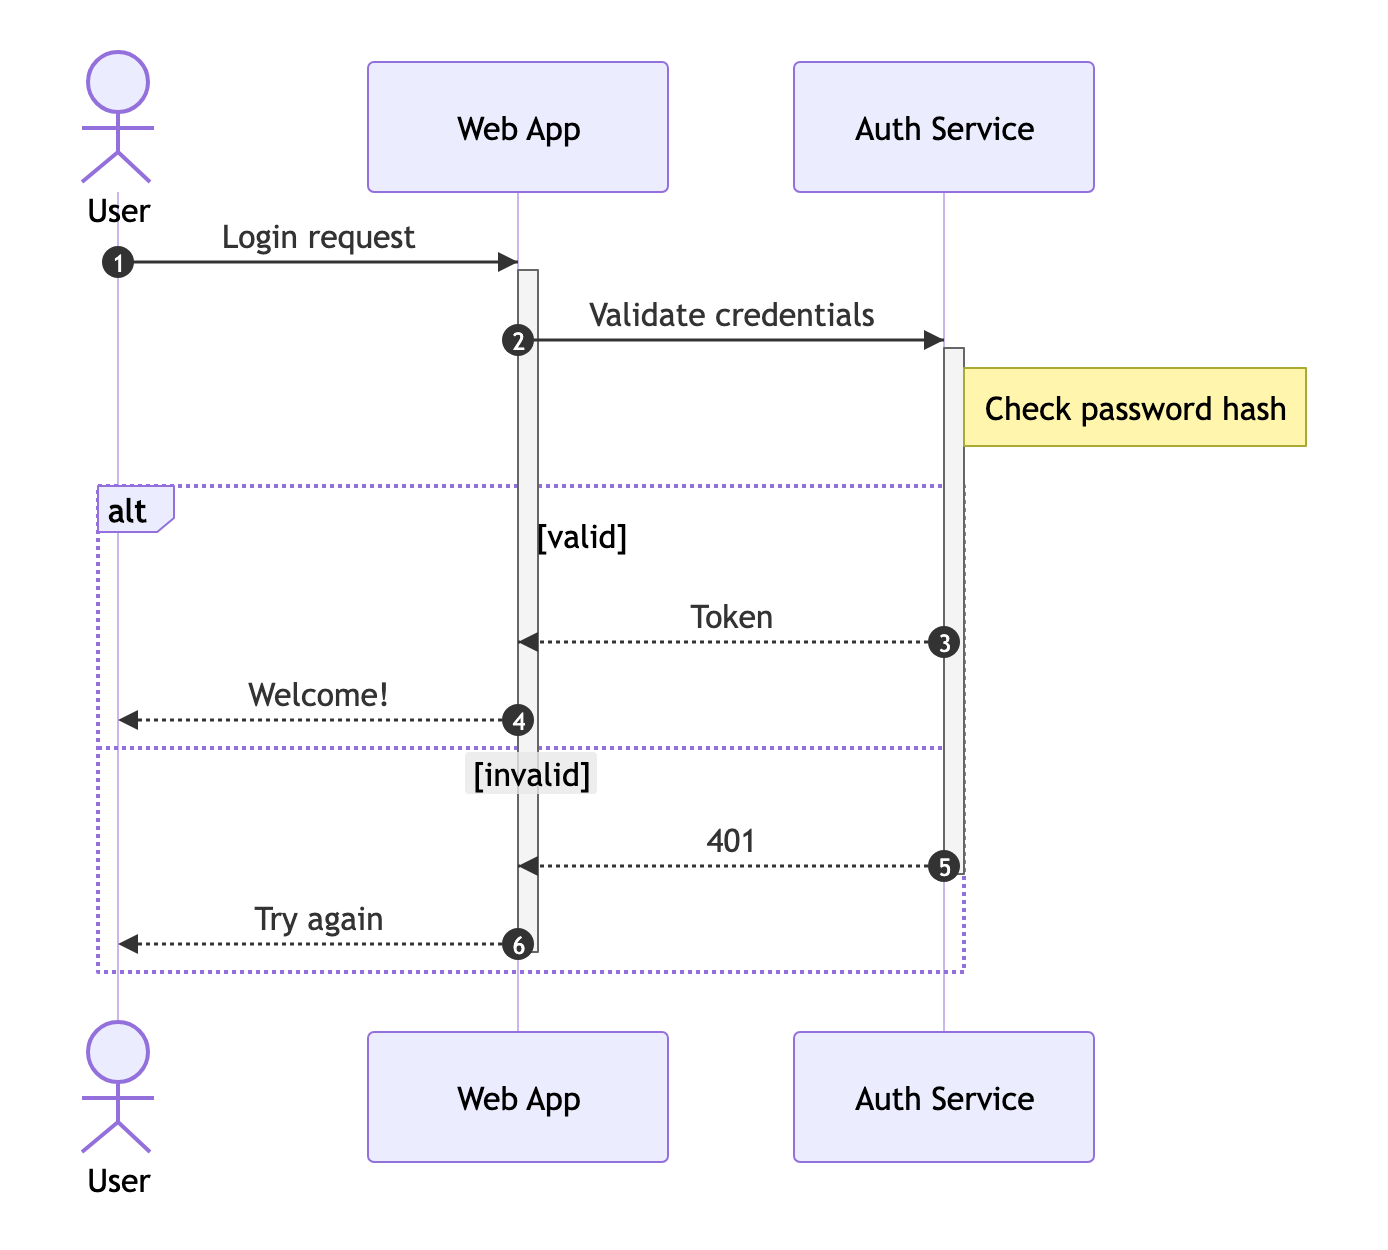
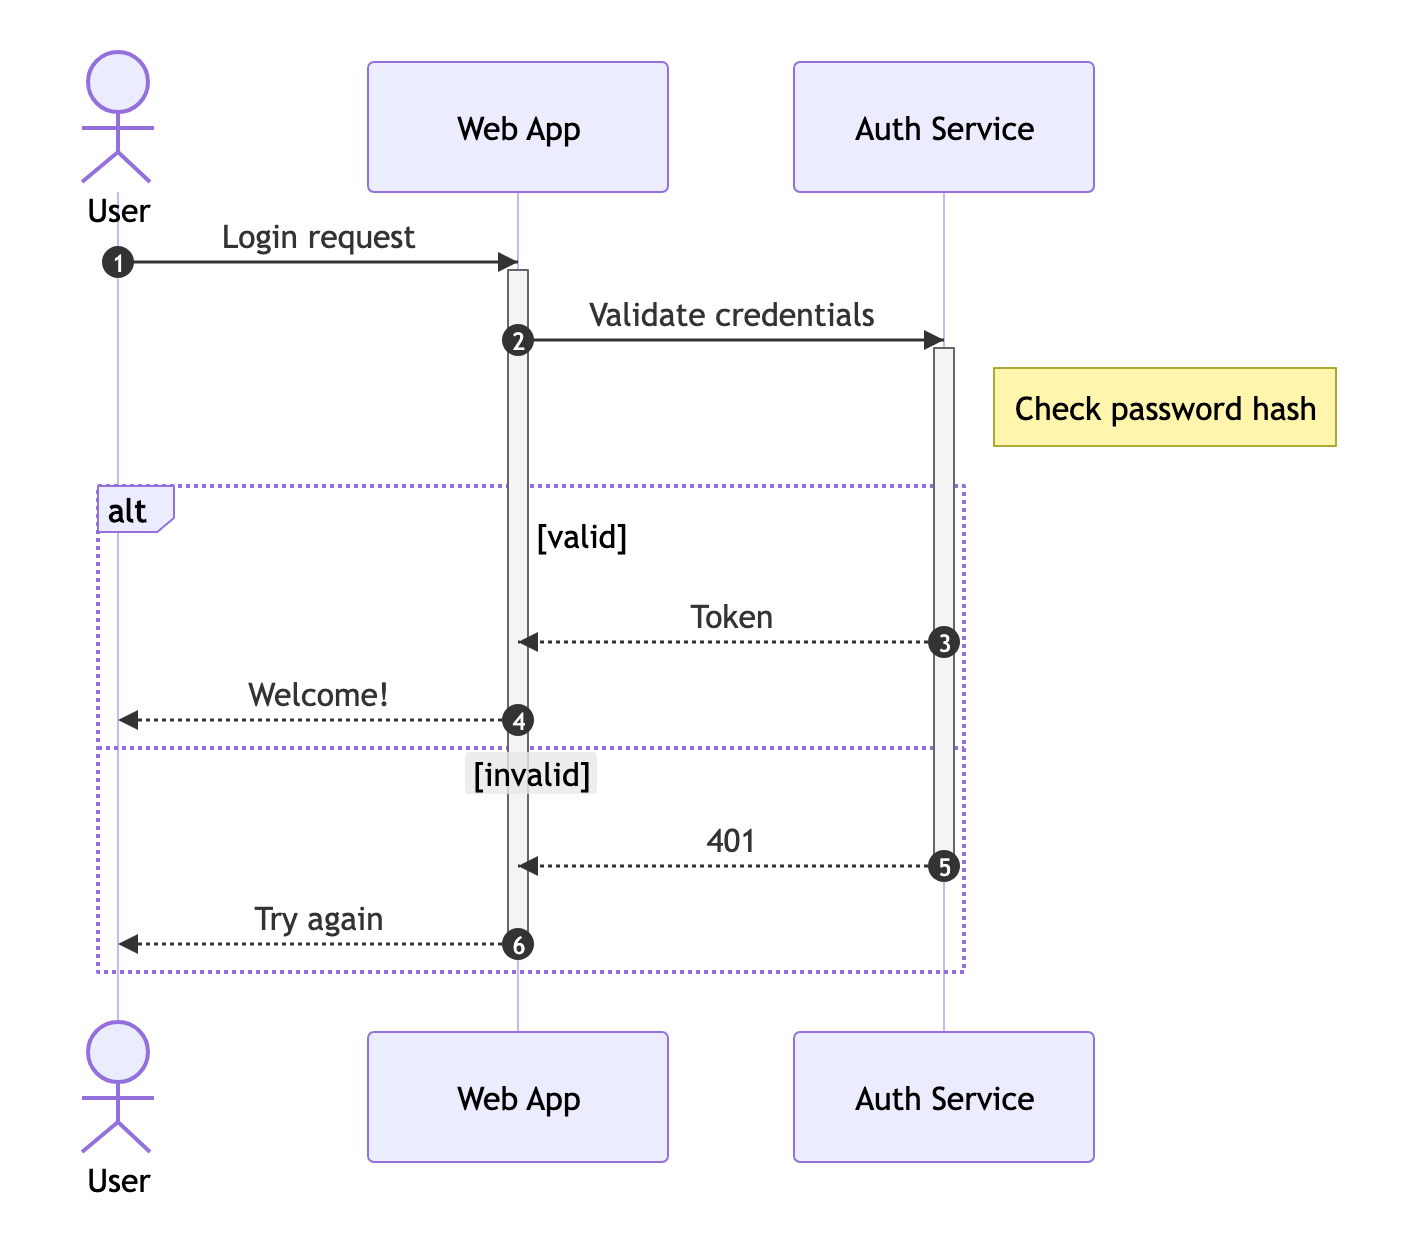
chore: release Mermaid packages 0.2.0

diff --git a/packages/mermaid_core/CHANGELOG.md b/packages/mermaid_core/CHANGELOG.md
@@ -1,7 +1,43 @@
-## Unreleased
+## 0.2.0
 
+**Behavior changes**
+
+- Scene groups now carry a `SceneGroupRole`. `RenderScene.nodeBounds` and
+  node hit-testing include only `SceneGroupRole.node` groups, so cluster,
+  frame, namespace, boundary, section, and legend ids are no longer reported
+  as nodes.
+- `MermaidTheme` equality and `hashCode` now cover every palette field instead
+  of the 16 base fields, so two themes that differ only in a palette no longer
+  compare equal.
+- Default `cScale*`, `cScaleInv*`, and `cScalePeer*` colors now match
+  Mermaid.js 11, and `forestTheme` defines an XY chart plot palette.
+- Multi-line subgraph titles (`subgraph S["a<br/>b"]`) now sit inside the
+  cluster border instead of above it; the cluster reserves the full title band.
+- Frontmatter `config:` YAML now strips trailing `# comments`, so
+  `width: 800 # note` reads as the number 800 instead of silently falling back
+  to the default. As in YAML, an unquoted value that starts with `#` is a
+  comment, so quote color literals such as `linkColor: '#ff0000'`.
+- Frontmatter config keys may contain hyphens and dots, and values accept
+  flow-style maps such as `nodeColors: {Bio-conversion: '#f00'}`.
+- `layoutSankey` takes a single `config: SankeyConfig` parameter instead of
+  twelve named options. `Mermaid.render` is unaffected.
+- `SankeyConfig.useMaxWidth` was removed; it was parsed but never read.
+- `XyChart.horizontal`, `showDataLabel`, and `showDataLabelOutsideBar` are now
+  getters over `XyChart.config`; the matching constructor parameters were
+  removed.
+
+**Changes**
+
+- Add `resolveDiagramConfig` for reading per-diagram configuration from
+  directives and frontmatter.
+- Add `SceneShape.copyWith` and `SceneText.copyWith`, and value equality on
+  `SceneEdgeMetadata`.
+- Compute `RenderScene.nodeBounds` once per scene and reuse the map, and make
+  `MermaidTheme` equality short-circuit on identity with a cached hash code.
+- Share edge geometry helpers (rect intersection, basis curves, path
+  midpoints) and validated config readers across diagram layouts.
 - Add scene-space node-bound lookup through `RenderScene.nodeBounds` and
-  `RenderScene.boundsOf`.
+  `RenderScene.boundsOfNode`.
 - Add structured flowchart edge metadata and path-distance measurement for
   precise stroke and label interaction.
 - Add paint-only flowchart node and link overrides that reuse an existing
@@ -38,6 +74,52 @@
   `MermaidTheme.copyWith`, equality, and hash-code calculations.
 - Preserve hand-drawn edge markers and legacy Font Awesome labels, and add
   gradient strokes and multiply compositing to render scenes and SVG output.
+
+**Fixes**
+
+- Header-only diagrams (`flowchart TB`, `classDiagram`, `erDiagram`,
+  `requirementDiagram`, `stateDiagram-v2`) render an empty scene instead of
+  throwing from `render()`.
+- A sequence block with no participants, a transition into an empty composite
+  state, and a quadrant chart smaller than its title and axis bands render
+  instead of throwing.
+- Sankey values too large to scale (such as `1e308`) no longer throw; `NaN`
+  and the infinities are reported as a `MermaidParseException` at parse time.
+- `look: handDrawn` keeps gradient link colors and multiply blending instead
+  of flattening them to a solid color.
+- Long flowchart edge labels, flowchart titles, and isolated-direction
+  subgraph titles carry explicit line breaks, so SVG output no longer
+  overflows its label box.
+- Block: a child's span is clamped to its group's column count so a wide span
+  no longer paints over siblings, and round shapes are sized from the shorter
+  side of their cell.
+- C4: boundary descriptions are measured at the width they are drawn at, so a
+  long description no longer paints over the elements inside the boundary;
+  an empty boundary label reserves no space.
+- Class: cross-namespace relations follow `direction`, relation labels use
+  the theme's edge-label background, namespace separation repeats until no
+  clusters overlap, and notes move with their class.
+- Git: the LR commit-tag spear tip is drawn outside the tag body, matching
+  upstream.
+- Venn: the title band is sized from the measured title so it no longer
+  overlaps the circles.
+- ER: attribute bands grow with the minimum-height floor so they cover the
+  whole entity.
+- Requirement: the re-column pass is bounded by each rank's free space, so a
+  relation source no longer drags its target past its neighbours.
+- XY chart: negative, zero, or non-finite `config.xyChart` dimensions fall
+  back to defaults; an all-equal value series maps to the middle of the range
+  and a single category is centered, matching d3.
+- Sankey: a node with a custom `nodeColors` entry no longer consumes a
+  palette slot, and value-less labels are centered on their node.
+- Sequence: a `create`d participant's top box is exposed as `actor_<id>`
+  again, and message arrowheads stop on the target's activation bar.
+- Radar: a body `title` line overrides the frontmatter title, matching every
+  other diagram.
+- Quadrant: a dangling axis label appends the long arrow with surrounding
+  spaces, matching upstream's grammar.
+- Journey section labels use the theme's title color; Ishikawa cause labels
+  are centered on their box.
 
 ## 0.1.2
 

diff --git a/packages/mermaid_flutter/CHANGELOG.md b/packages/mermaid_flutter/CHANGELOG.md
@@ -1,4 +1,13 @@
-## Unreleased
+## 0.2.0
+
+**Behavior changes**
+
+- `onNodeTap` now fires only for diagram nodes (`SceneGroupRole.node`).
+  Sequence frames, class namespaces, composite states, C4 boundaries, journey
+  sections, and pie legend entries are no longer tap targets.
+- Requires `mermaid_core` 0.2.0.
+
+**Changes**
 
 - Preserve requested monospace fonts and add platform symbol-font fallbacks for
   Unicode diagram labels.
@@ -20,6 +29,9 @@
   `ScenePainter` and headless PNG output.
 - Keep node, edge, hover, semantics, and scene callbacks working when
   paint-only overrides change.
+- The built-in fullscreen popup uses the view's own `padding`, `zoomStep`,
+  `panStep`, and `showControls` instead of falling back to the defaults.
+- Refresh the pub.dev screenshots for the corrected layouts.
 
 ## 0.1.2
 
